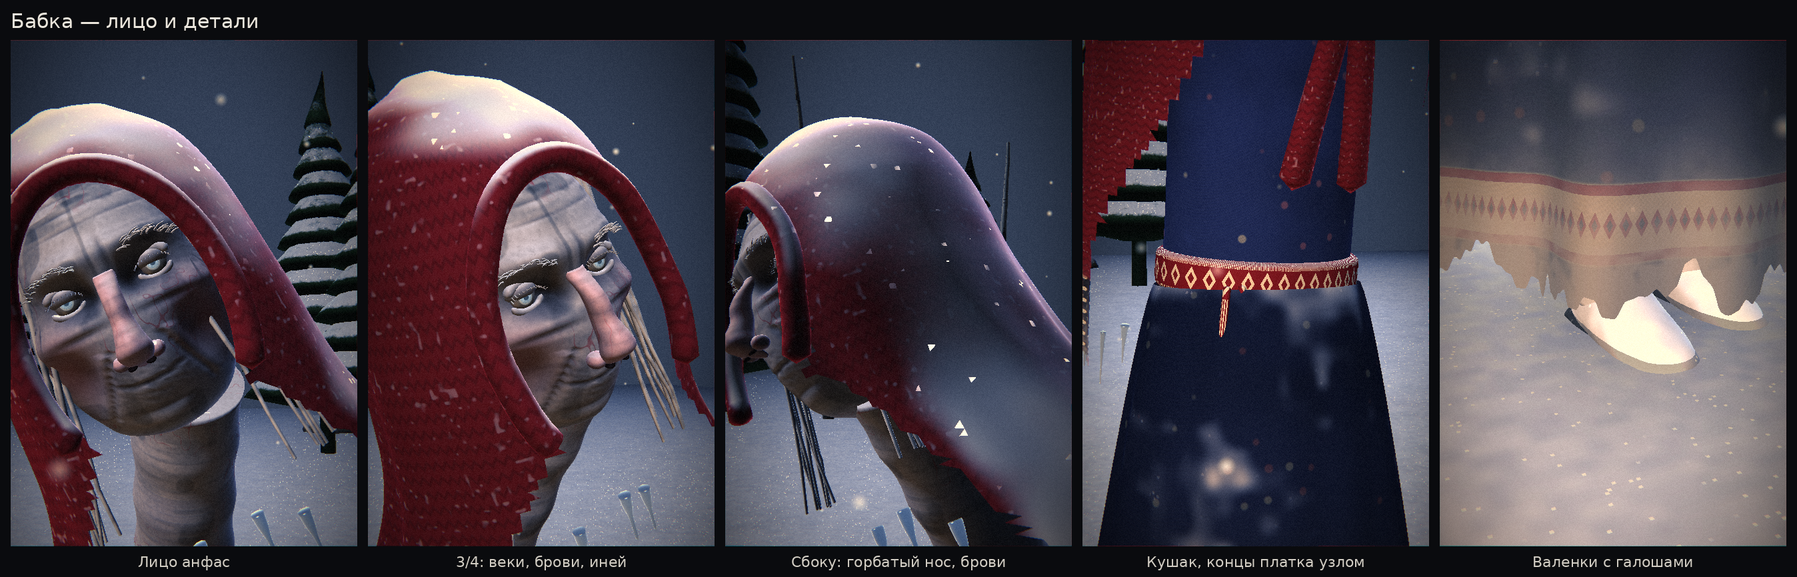
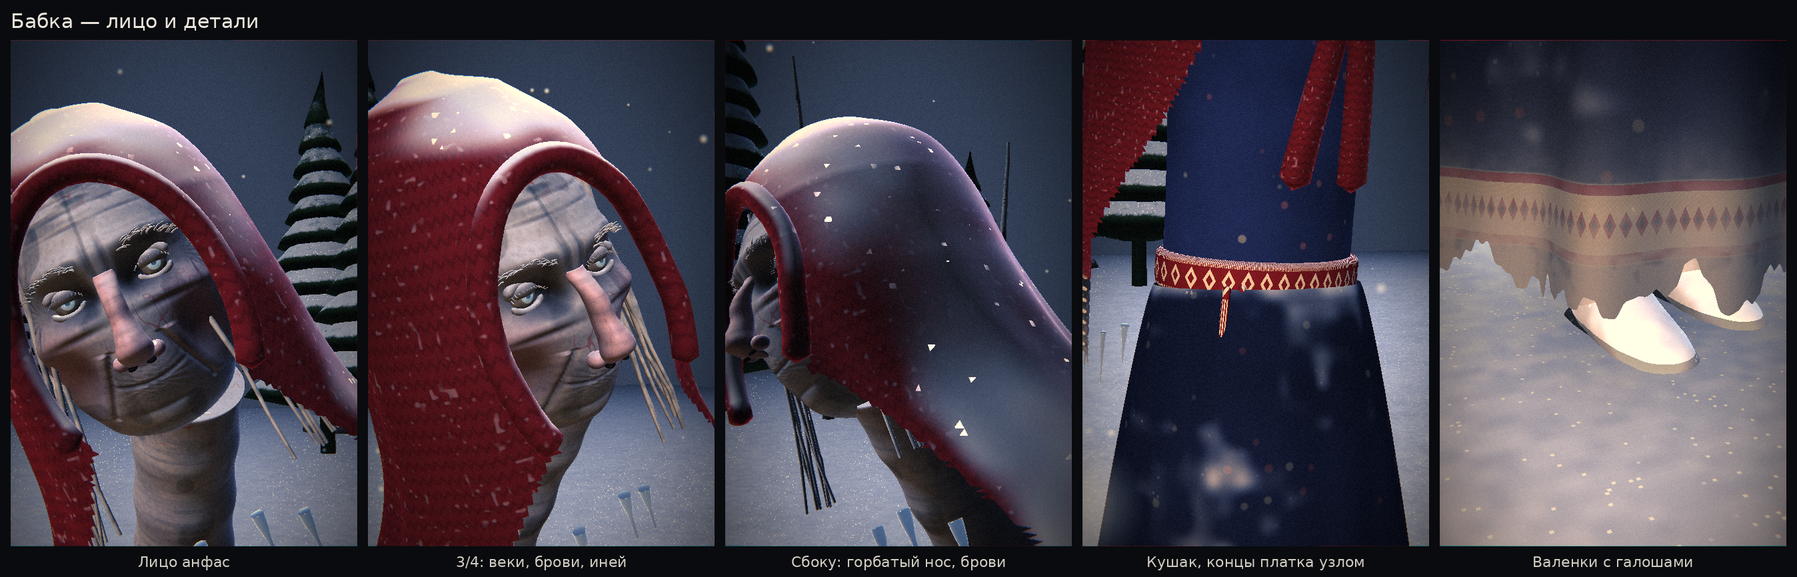
Бабка: в 3 раза больше полигонов (≈660 тыс. треугольников)
Claude-Session: https://claude.ai/code/session_01U7q1e8uFZWwJZQ9ReMncAM

diff --git a/monsters/babka_mesh.py b/monsters/babka_mesh.py
@@ -20,7 +20,7 @@ NECK_MAX = 0.28
 SEAT_H = 0.46              # высота ступеньки крыльца
 SKIRT_L = 1.0
 HC, HR = (0.0, 0.10, 0.015), (0.076, 0.108, 0.09)
-DETAIL = 2.2               # плотность сетки (больше — больше полигонов)
+DETAIL = 3.9               # плотность сетки (больше — больше полигонов)
 
 
 def Q(n):
@@ -116,7 +116,7 @@ def _cloth_folds(k, amp=0.05):
 
 # ---------------------------------------------------------------- платье
 
-SK_RINGS, SK_SEG = 64, 132
+SK_RINGS, SK_SEG = 110, 228
 
 
 def skirt_topology():

diff --git a/docs/babka/README.md b/docs/babka/README.md
@@ -28,7 +28,7 @@
 красные от мороза, глаза ледяные; на капюшоне, плечах и спине лежит снег (геометрия), с края
 платка и под подбородком свисают сосульки, по краям ткани иней. Лист модели: `python tools/render_babka_model.py`.
 
-Детализация (≈220 тыс. треугольников, плотность — `DETAIL` в `monsters/babka_mesh.py`):
+Детализация (≈660 тыс. треугольников, плотность — `DETAIL` в `monsters/babka_mesh.py`):
 лицо вылеплено смещениями на плотной сетке — глазницы, надбровье, мешки и складки под глазами, скулы,
 впалые щёки, носогубные складки, брыли, подбородок, морщины на лбу, «гусиные лапки», межбровные складки
 и сросшийся рот; горбатый нос с крыльями и ноздрями; верхние и нижние веки, ресницы и брови в инее;
